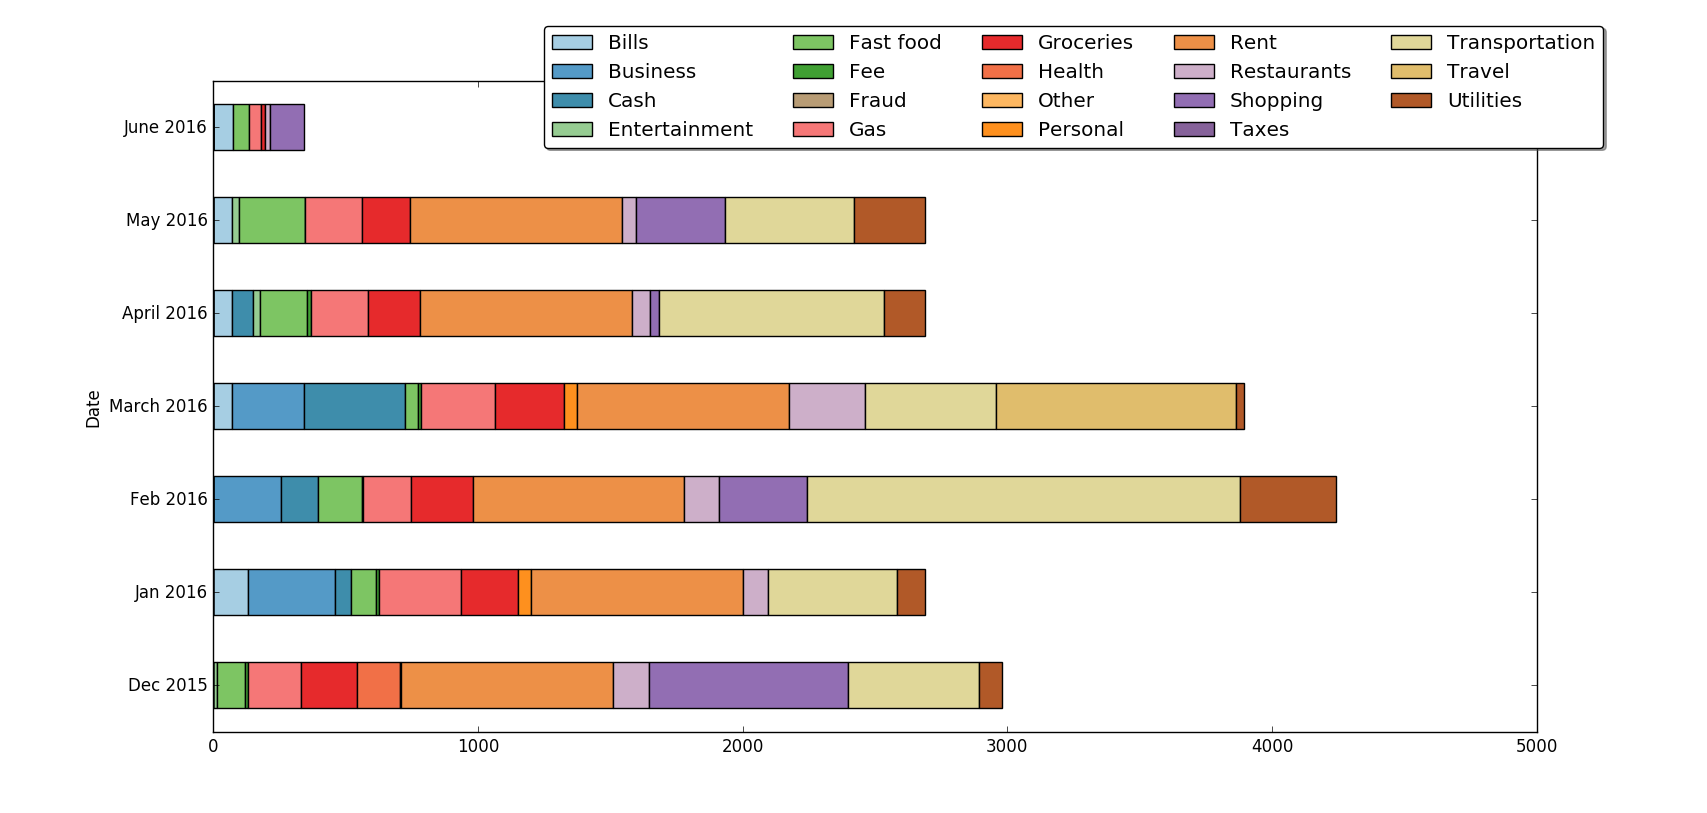
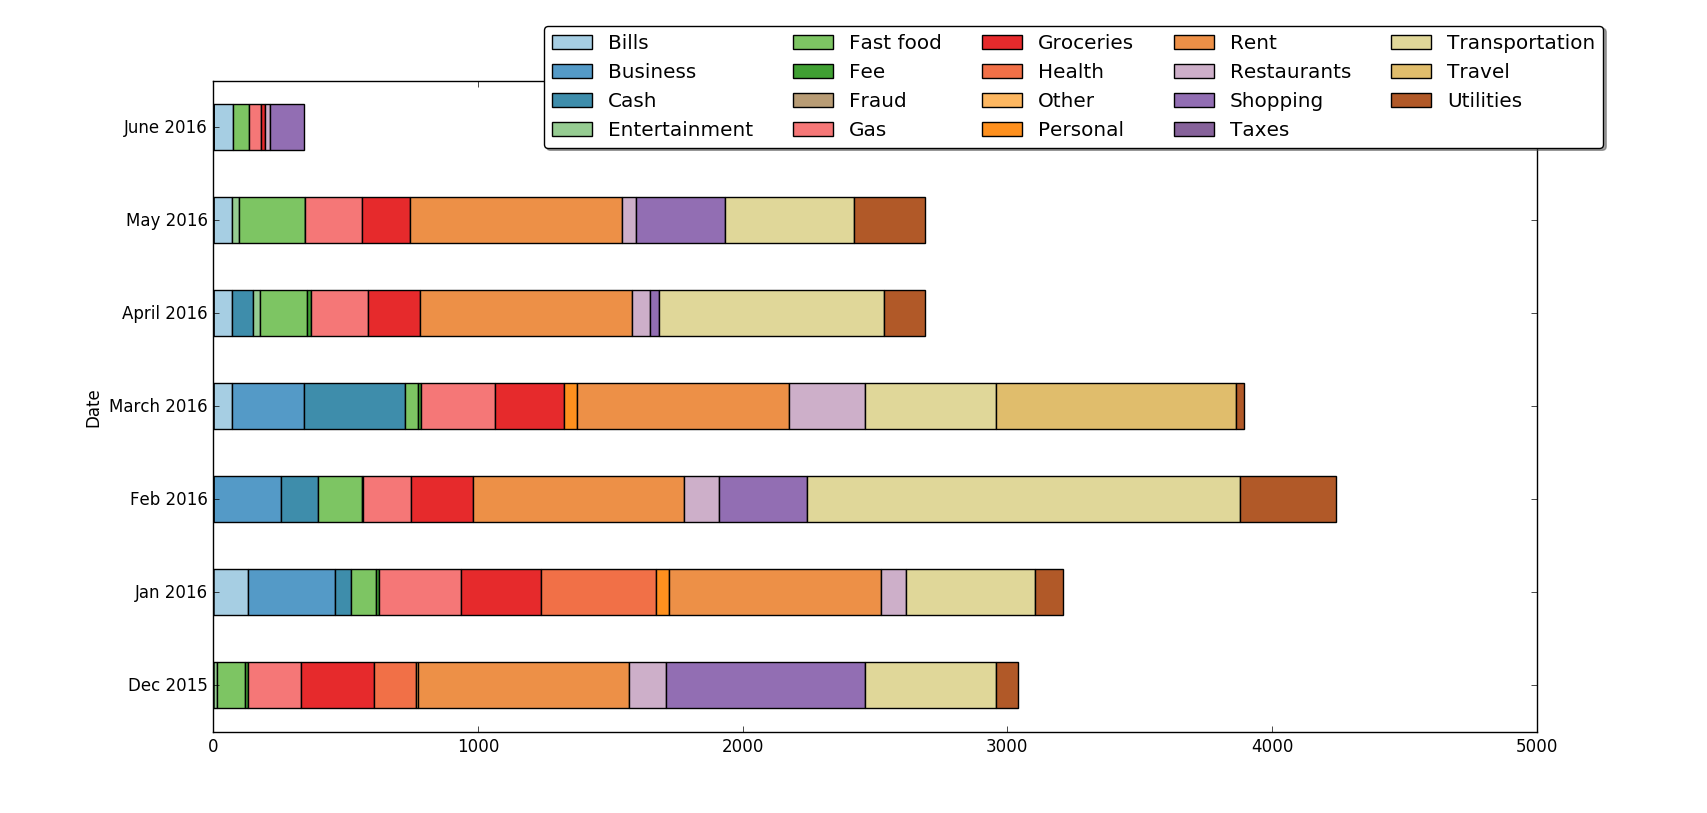
Add files via upload

diff --git a/Analysis.html b/Analysis.html
@@ -104,8 +104,8 @@
     </tr>
     <tr>
       <th>Groceries</th>
-      <td>211.610</td>
-      <td>215.455</td>
+      <td>275.255</td>
+      <td>302.690</td>
       <td>232.49</td>
       <td>258.965</td>
       <td>198.275</td>
@@ -115,7 +115,7 @@
     <tr>
       <th>Health</th>
       <td>160.000</td>
-      <td>0.000</td>
+      <td>433.920</td>
       <td>0.00</td>
       <td>0.000</td>
       <td>0.000</td>
@@ -233,8 +233,8 @@
   <tbody>
     <tr>
       <th>Withdrawl</th>
-      <td>2978.025</td>
-      <td>2598.41</td>
+      <td>3041.67</td>
+      <td>3119.565</td>
       <td>4239.98</td>
       <td>3894.53</td>
       <td>2689.045</td>
@@ -243,8 +243,8 @@
     </tr>
     <tr>
       <th>Deposit</th>
-      <td>0.000</td>
-      <td>234.61</td>
+      <td>0.00</td>
+      <td>234.610</td>
       <td>10.95</td>
       <td>0.00</td>
       <td>0.000</td>
